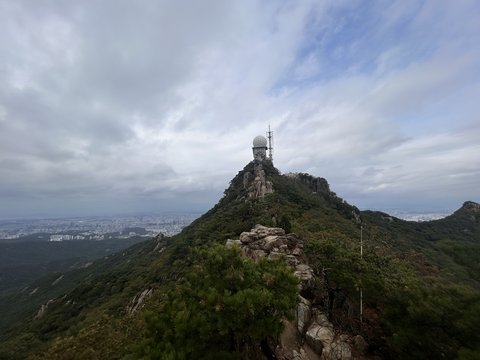
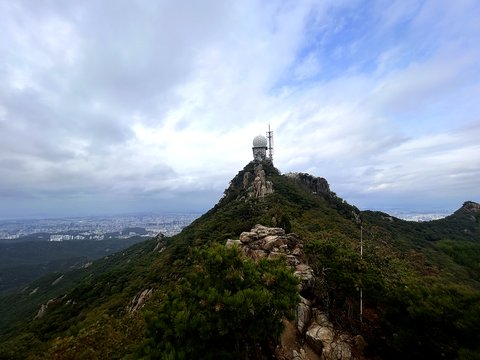
관악산 등반기록 추가 (2025-10-11 관악산역 → 연주대 → 사당역)
- 사진 9장 + GPS 경로, 얼굴은 스티커로 가림
- 대표 사진을 보정본으로 교체

Claude-Session: https://claude.ai/code/session_01U7tKXoXxPgekUzA57hnrcL

diff --git a/docs/mountain/관악산.html b/docs/mountain/관악산.html
@@ -13,7 +13,7 @@
 <meta property="og:site_name" content="블랙야크 100대 명산 기록">
 <meta property="og:locale" content="ko_KR">
 <meta property="og:url" content="https://jthird-ops.github.io/mountain/%EA%B4%80%EC%95%85%EC%82%B0.html">
-<meta property="og:image" content="https://jthird-ops.github.io/assets/photos/%EA%B4%80%EC%95%85%EC%82%B0.6f34b54d.jpg">
+<meta property="og:image" content="https://jthird-ops.github.io/assets/photos/%EA%B4%80%EC%95%85%EC%82%B0.f037ee10.jpg">
 <meta name="twitter:card" content="summary_large_image">
 <link rel="canonical" href="https://jthird-ops.github.io/mountain/%EA%B4%80%EC%95%85%EC%82%B0.html">
 <link rel="icon" href="../assets/favicon.ea8613df.png" type="image/png">
@@ -60,11 +60,11 @@
     <p class="summary">629m. 지하철로 붙어 지하철로 내려오는 서울의 바위산. 정상 연주대의 절벽 위 암자가 상징입니다.</p>
   </div>
 
-  <figure class="cover"><img src="../assets/photos/관악산.6f34b54d.jpg" alt="관악산 사진" decoding="async"><figcaption>사진 직접 촬영 · 2025-10-11</figcaption></figure>
+  <figure class="cover"><img src="../assets/photos/관악산.f037ee10.jpg" alt="관악산 사진" decoding="async"><figcaption>사진 직접 촬영 · 2025-10-11</figcaption></figure>
 
   <div class="post-body">
     <div class="main"><div class="lede"><p>관악산은 서울 남쪽을 대표하는 산입니다. 사당역·과천역·서울대입구 등 어느 방향에서든 지하철로 접근할 수 있어, 차 없이 다녀오기에 가장 편한 산 중 하나입니다.</p><p>정상 연주대는 절벽 끝에 매달린 듯 서 있는 암자로 관악산의 상징입니다. 정상부는 온통 바위라 조망이 시원하지만, 그만큼 오르는 길도 바위투성이입니다.</p><p>가장 대중적인 조합은 사당역에서 관음사와 관악문을 거쳐 연주대에 오른 뒤 과천향교나 관악산역으로 내려오는 종주입니다. 9~10km에 5시간 안팎입니다. 짧게 가려면 과천향교에서 4.1km로 붙는 코스가 있습니다.</p></div>
-    
+    <section class="blk"><h2>등반기록</h2><article class="lg"><header class="lg-head"><b class="lg-title">흐린 날 지하철 타고 오른 관악산, 사당 능선으로 하산</b><p class="lg-sub">관악산역 → 관악산공원 입구 → 연주샘·자운암 능선 → 정상(연주대) → 연주암 → 능선길(헬기장·마당바위·하마바위) → 관악산 만남의 광장 → 사당역</p><div class="lg-chips"><span class="lg-chip">2025.10.11</span><span class="lg-chip">관악산역 출발</span><span class="lg-chip">흐림</span></div></header><div class="lg-stats"><div class="lg-stat"><b>10.6km</b><span>이동 거리</span></div><div class="lg-stat"><b>5:09:12</b><span>총 소요시간</span></div><div class="lg-stat"><b>760m</b><span>고도 상승</span></div><div class="lg-stat"><b>20,721보</b><span>걸음 수</span></div><div class="lg-stat"><b>1,136kcal</b><span>소모 칼로리</span></div><div class="lg-stat"><b>28&#x27;56&quot;/km</b><span>평균 페이스</span></div></div><h3>흐린 날, 지하철로 관악산역까지</h3><p>날씨가 흐려서 갈까 말까 고민하다가 지하철을 타고 관악산으로 향했어요. 낮 12시 52분, 관악산역에서 출발했어요.</p><p>오랜만에 찾은 관악산인데, 언제 가도 편안한 느낌이에요. 관악산공원 입구에서 연주샘과 자운암 능선을 따라 정상으로 올랐어요.</p><h3>자운암 능선에서 연주대로</h3><p>능선에 올라서니 정상부의 기상레이더와 바위 능선이 눈앞에 펼쳐졌어요. 흐린 날인데도 서울 시내가 멀리까지 내려다보였어요.</p><figure class="lg-fig"><img src="../assets/photos/log/관악산-2025-10-11-2.56315e7f.jpg" alt="능선에서 바라본 관악산 정상부" loading="lazy" decoding="async"><figcaption>능선에서 바라본 관악산 정상부</figcaption></figure><div class="lg-grid"><figure class="lg-cell"><img src="../assets/photos/log/관악산-2025-10-11-1.9a5f978f.jpg" alt="정상을 뒤로하고 한 컷" loading="lazy" decoding="async"><figcaption>정상을 뒤로하고 한 컷</figcaption></figure><figure class="lg-cell"><img src="../assets/photos/log/관악산-2025-10-11-3.3b3f8148.jpg" alt="능선에서 내려다본 풍경" loading="lazy" decoding="async"><figcaption>능선에서 내려다본 풍경</figcaption></figure></div><h3>관악산 정상, 연주대 629m</h3><p>오후 3시 25분쯤 정상석 앞에서 인증샷을 남겼어요. 절벽 위에 올라앉은 연주대도 가까이에서 볼 수 있었어요.</p><figure class="lg-fig"><img src="../assets/photos/log/관악산-2025-10-11-5.740f42e7.jpg" alt="관악산 정상석 앞에서" loading="lazy" decoding="async"><figcaption>관악산 정상석 앞에서</figcaption></figure><div class="lg-grid"><figure class="lg-cell"><img src="../assets/photos/log/관악산-2025-10-11-4.3f080117.jpg" alt="절벽 위의 연주대를 배경으로" loading="lazy" decoding="async"><figcaption>절벽 위의 연주대를 배경으로</figcaption></figure></div><h3>사당 능선으로 하산</h3><p>오늘은 새롭게 사당 쪽으로 하산 코스를 잡았어요. 연주암을 지나 헬기장, 마당바위, 하마바위로 이어지는 능선길이에요. 정상에서 내려가는 길 중에서는 개인적으로 이 코스가 제일 마음에 들어요.</p><p>하산 능선길에서 보이는 서울 풍경이 예술이에요. 빼곡히 들어선 주택과 아파트 사이로 한강이 유유히 흐르고, 그 사이사이 녹지가 잘 어우러져서 한 폭의 그림 같아요.</p><p>관악산 만남의 광장을 지나 사당역에서 산행을 마쳤어요. 총 10.6km, 5시간 9분이 걸렸어요.</p><figure class="lg-fig"><img src="../assets/photos/log/관악산-2025-10-11-8.cac3fa31.jpg" alt="능선 바위 위에서 바라본 서울" loading="lazy" decoding="async"><figcaption>능선 바위 위에서 바라본 서울</figcaption></figure><div class="lg-grid"><figure class="lg-cell"><img src="../assets/photos/log/관악산-2025-10-11-6.002a00ab.jpg" alt="관악산 산행 사진" loading="lazy" decoding="async"></figure><figure class="lg-cell"><img src="../assets/photos/log/관악산-2025-10-11-7.fb0ca495.jpg" alt="관악산 산행 사진" loading="lazy" decoding="async"></figure><figure class="lg-cell"><img src="../assets/photos/log/관악산-2025-10-11-9.2dfb4a22.jpg" alt="하산길에 내려다본 서울 풍경" loading="lazy" decoding="async"><figcaption>하산길에 내려다본 서울 풍경</figcaption></figure><figure class="lg-cell"><img src="../assets/photos/log/관악산-2025-10-11-route.7121b389.jpg" alt="GPS 경로 — 관악산역에서 사당역까지" loading="lazy" decoding="async"><figcaption>GPS 경로 — 관악산역에서 사당역까지</figcaption></figure></div><h3>다음에 갈 사람을 위한 팁</h3><ul class="tips"><li>관악산역에서 올라 사당역으로 내려오면 차 없이 지하철만으로 다녀올 수 있어요.</li><li>정상에서 사당 쪽으로 내려가는 능선길은 서울 풍경을 보면서 걷는 코스예요. 하산길로 추천해요.</li><li>능선 구간은 바위가 많아요. 흐린 날이나 비 온 뒤에는 미끄러우니 조심하세요.</li></ul><div class="lg-verdict"><p>날씨가 흐려 망설였지만 오길 잘했어요. 언제 가도 편안한 관악산, 이번에 처음 걸어 본 사당 능선 하산길이 제일 마음에 들었어요. 주택과 아파트 사이로 흐르는 한강과 녹지가 어우러진 서울 풍경은 한 폭의 그림 같았어요.</p></div></article></section>
     <section class="blk"><h2>이 산의 포인트</h2><ul class="hl"><li>연주대 — 절벽 위에 세운 암자</li><li>사당·과천·서울대 등 지하철 접근이 매우 쉬움</li><li>정상부 전체가 바위인 암산</li><li>사당역~관악산역 종주 10km·5시간</li></ul></section>
     <section class="blk"><h2>등산 코스</h2><div class="table-scroll"><table class="courses">
       <thead><tr><th>코스</th><th>거리</th><th>소요</th><th>난이도</th></tr></thead>

diff --git a/docs/index.html b/docs/index.html
@@ -245,7 +245,7 @@ read();
       </a>
       <a class="card" href="mountain/관악산.html"
          data-region="서울" data-name="관악산">
-        <span class="card-thumb"><img src="assets/photos/관악산-t.3a1103dc.jpg" alt="관악산 사진" loading="lazy" decoding="async"></span>
+        <span class="card-thumb"><img src="assets/photos/관악산-t.0e7a2c6d.jpg" alt="관악산 사진" loading="lazy" decoding="async"><span class="done-badge">✓ 완등 25.10.11</span></span>
         <span class="card-body">
           <span class="card-top"><i class="rank">10</i><i class="tag">서울</i></span>
           <strong>관악산</strong>
